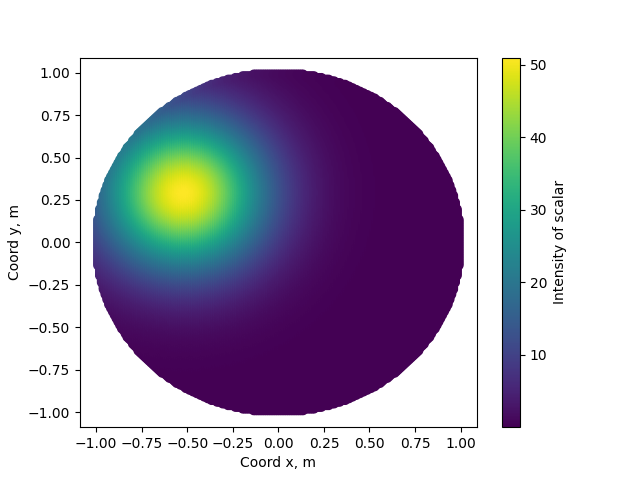
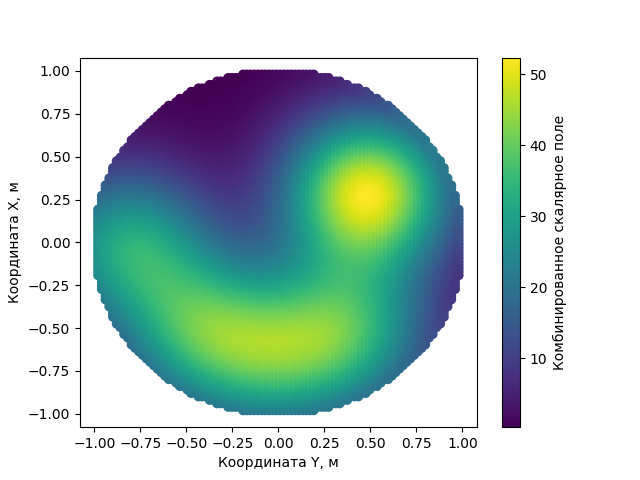
123123dsadasda12312312dasdasdasdas

diff --git a/!complex_scalar_fields.py b/!complex_scalar_fields.py
@@ -1,6 +1,6 @@
-import matplotlib.pyplot as plt
 import numpy as np
 from scipy import interpolate
+import matplotlib.pyplot as plt
 import shapely.geometry as geom
 
 phi = np.linspace(0, 2*np.pi, 100)
@@ -12,48 +12,51 @@ spline_coords, figure_spline_part = interpolate.splprep([array_x, array_y], s=0)
 spline_curve = interpolate.splev(figure_spline_part, spline_coords)
 
 curve_coords = []
-points_coords = []
 for i in range(len(spline_curve[0])):
     curve_coords.append([spline_curve[0][i], spline_curve[1][i]])
-    
+
 polygon = geom.Polygon(curve_coords)
-points_number_per_side = 200
+points_numper_per_side = 100
+x_pictures_limits = [-1.0, 1.0]
+y_pictures_limits = [-1.0, 1.0]
 
-x_pictures_limits = [-1, 1]
-y_pictures_limits = [-1, 1]
-
-for x_point_coord in np.linspace(*x_pictures_limits, points_number_per_side):
-    for y_point_coord in np.linspace(*y_pictures_limits, points_number_per_side):
+points_coords = []
+for x_point_coord in np.linspace(*x_pictures_limits, points_numper_per_side):
+    for y_point_coord in np.linspace(*y_pictures_limits, points_numper_per_side):
         p = geom.Point(x_point_coord, y_point_coord)
         if p.within(polygon):
             points_coords.append(x_point_coord)
             points_coords.append(y_point_coord)
+
 x_p = np.array(points_coords[0::2])
 y_p = np.array(points_coords[1::2])
-def bell_function(x, y, intensity=1, dec_rate=[0.5,0.5]):
-    scalar_field = intensity * np.exp(-dec_rate[0] * x**2 - dec_rate[1] * y**2)
+
+def bell_function(x, y, intensity=1, dec_rate=[0.5, 0.5]):
+    scalar_func = intensity * np.exp(- dec_rate[0]*x**2 - dec_rate[1]*y**2) 
+    return scalar_func
+
+intensity_centerums_x = [-0.8, 0.5, -0.4, 0.0, 0.4]
+intensity_centerums_y = [0.0, 0.3, -0.5, -0.7, -0.5]
+intensity_values = [1, 1.7, 1, 0.7, 1]
+
+def scalar_function(x, y, int_cen_x, int_cen_y, int_vel):
+    scalar_field = 0.0
+    for i in range(0, len(int_cen_x)):
+        scalar_field += int_vel[i] * bell_function(x-int_cen_x[i], y-int_cen_y[i], 30, [5, 5])
     return scalar_field
 
-intensity_centrums_x = [-0.5, 0.5, -0.4, 0.0, 0.4]
-intensity_centrums_y = [0.3, 0.3, -0.5, -0.7, -0.5]
-intensity_values = [1.7, 1.7, 1, 0.7, 1]
-
-def scalar_func(x, y, int_cen_x, int_cen_y, int_vel):
-    scalar_field = 0 
-    for i in range(0, len(int_cen_x)):
-        scalar_field += int_vel[i] * bell_function(x - int_cen_x[i], y - int_cen_y[i], 30, [5, 5])
-        return scalar_field
-scalar_field = []
-for i in  range(0, len(x_p)):
-    calculate = scalar_func(x_p[i], y_p[i], intensity_centrums_x, intensity_centrums_y, intensity_values)
-    scalar_field.append(calculate)
+scalar_fields = []
+for i in range(0, len(x_p)):
+    calculate = scalar_function(x_p[i], y_p[i], intensity_centerums_x, 
+                                intensity_centerums_y, intensity_values)
+    scalar_fields.append(calculate)
 
 fig, ax = plt.subplots()
+sc_plot = ax.scatter(x_p, y_p, c=scalar_fields)
+ax.set_ylabel('Координата Х, м')
+ax.set_xlabel('Координата Y, м')
 
-sc_plot = ax.scatter(x_p, y_p, c=scalar_field)
-ax.set_xlabel('Coord x, m')
-ax.set_ylabel('Coord y, m')
 cbar = fig.colorbar(sc_plot)
-cbar.set_label('Intensity of scalar')
+cbar.set_label("Комбинированное скалярное поле")
 
 plt.savefig('dich2.png')

diff --git a/img_interpol.py b/img_interpol.py
@@ -111,6 +111,12 @@ y15 = 1000
 x = np.append(x, x15)
 y = np.append(y, y15)
 
+t16 = np.linspace(0, np.pi/2.5, 10)
+x16 = 850 
+y16 = 800
+
+x = np.append(x, x16)
+y = np.append(y, y16)
 
 spline_coords, figure_spline_part = interpolate.splprep([x, y], s=0)
 spline_curve = interpolate.splev(figure_spline_part, spline_coords)
@@ -120,19 +126,54 @@ for i in range(len(spline_curve[0])):
     curve_coords.append([spline_curve[0][i], spline_curve[1][i]])
     
 polygon = geom.Polygon(curve_coords)
-points_number_per_side = 500
-
+points_number_per_side = 100
 x_pictures_limits = [800, 1500]
 y_pictures_limits = [0, 1000]
 
+points_coords = []
 for x_point_coord in np.linspace(*x_pictures_limits, points_number_per_side):
     for y_point_coord in np.linspace(*y_pictures_limits, points_number_per_side):
         p = geom.Point(x_point_coord, y_point_coord)
         if p.within(polygon):
-            plt.plot(x_point_coord, y_point_coord, 'bo', ms = 0.5)
+#            plt.plot(x_point_coord, y_point_coord, 'bo', ms = 0.5)
+            points_coords.append(x_point_coord)
+            points_coords.append(y_point_coord)
 
+x_p = np.array(points_coords[0::2])
+y_p = np.array(points_coords[1::2])
+
+def bell_function(x, y, intensity=1, dec_rate=[0.5, 0.5]):
+    scalar_func = intensity * np.exp(- dec_rate[0]*x**2 - dec_rate[1]*y**2) 
+    return scalar_func
+
+intensity_centerums_x = [1000, 1050, 1100, 1050, 1150, 1200, 1200, 1250, 1280, 1300, 1320, 1300, 1400, 1200]
+intensity_centerums_y = [980, 980, 980, 950, 900, 870, 800, 730, 680, 600, 500, 350, 350, 325]
+intensity_values = [112, 112, 112, 112, 112, 350, 355, 370, 1000, 1000, 950, 1200, 1200, 1000]
+
+def scalar_function(x, y, int_cen_x, int_cen_y, int_vel):
+    scalar_field = 0
+    for i in range(0, len(int_cen_x)):
+        scalar_field += int_vel[i] * bell_function(x-int_cen_x[i], y-int_cen_y[i], 30, [0.00025, 0.00025])
+    return scalar_field
+
+scalar_fields = []
+for i in range(0, len(x_p)):
+    calculate = scalar_function(x_p[i], y_p[i], intensity_centerums_x, intensity_centerums_y, intensity_values)
+    scalar_fields.append(calculate)
+
+fig, ax = plt.subplots()
+
+ax.imshow(img)
+sc_plot = ax.scatter(x_p, y_p, c=scalar_fields)
 plt.plot(spline_curve[0], spline_curve[1], 'y')
+ax.set_ylabel('Координата Y, м')
+ax.set_xlabel('Координата X, м')
+
+cbar = fig.colorbar(sc_plot)
+cbar.set_label("Комбинированное скалярное поле")       
+
+plt.title('(c**18)O(J=2-1)         (K km/s)')
 plt.ylim(1000, 0)
-plt.xlim(850, 1500)
+plt.xlim(800, 1500)
 plt.savefig('hh_interpol.png')
 

diff --git a/!bell_function.py b/!bell_function.py
@@ -42,4 +42,12 @@ ax.set_ylabel('Coord y, m')
 cbar = fig.colorbar(sc_plot)
 cbar.set_label('Intensity of scalar')
 
+fig, ax = plt.subplots()
+sc_plot = ax.scatter(x_p, y_p, c=scalar_fields)
+ax.set_ylabel('Координата Х, м')
+ax.set_xlabel('Координата Y, м')
+
+cbar = fig.colorbar(sc_plot)
+cbar.set_label("Комбинированное скалярное поле")
+
 plt.savefig('dich1.png')
